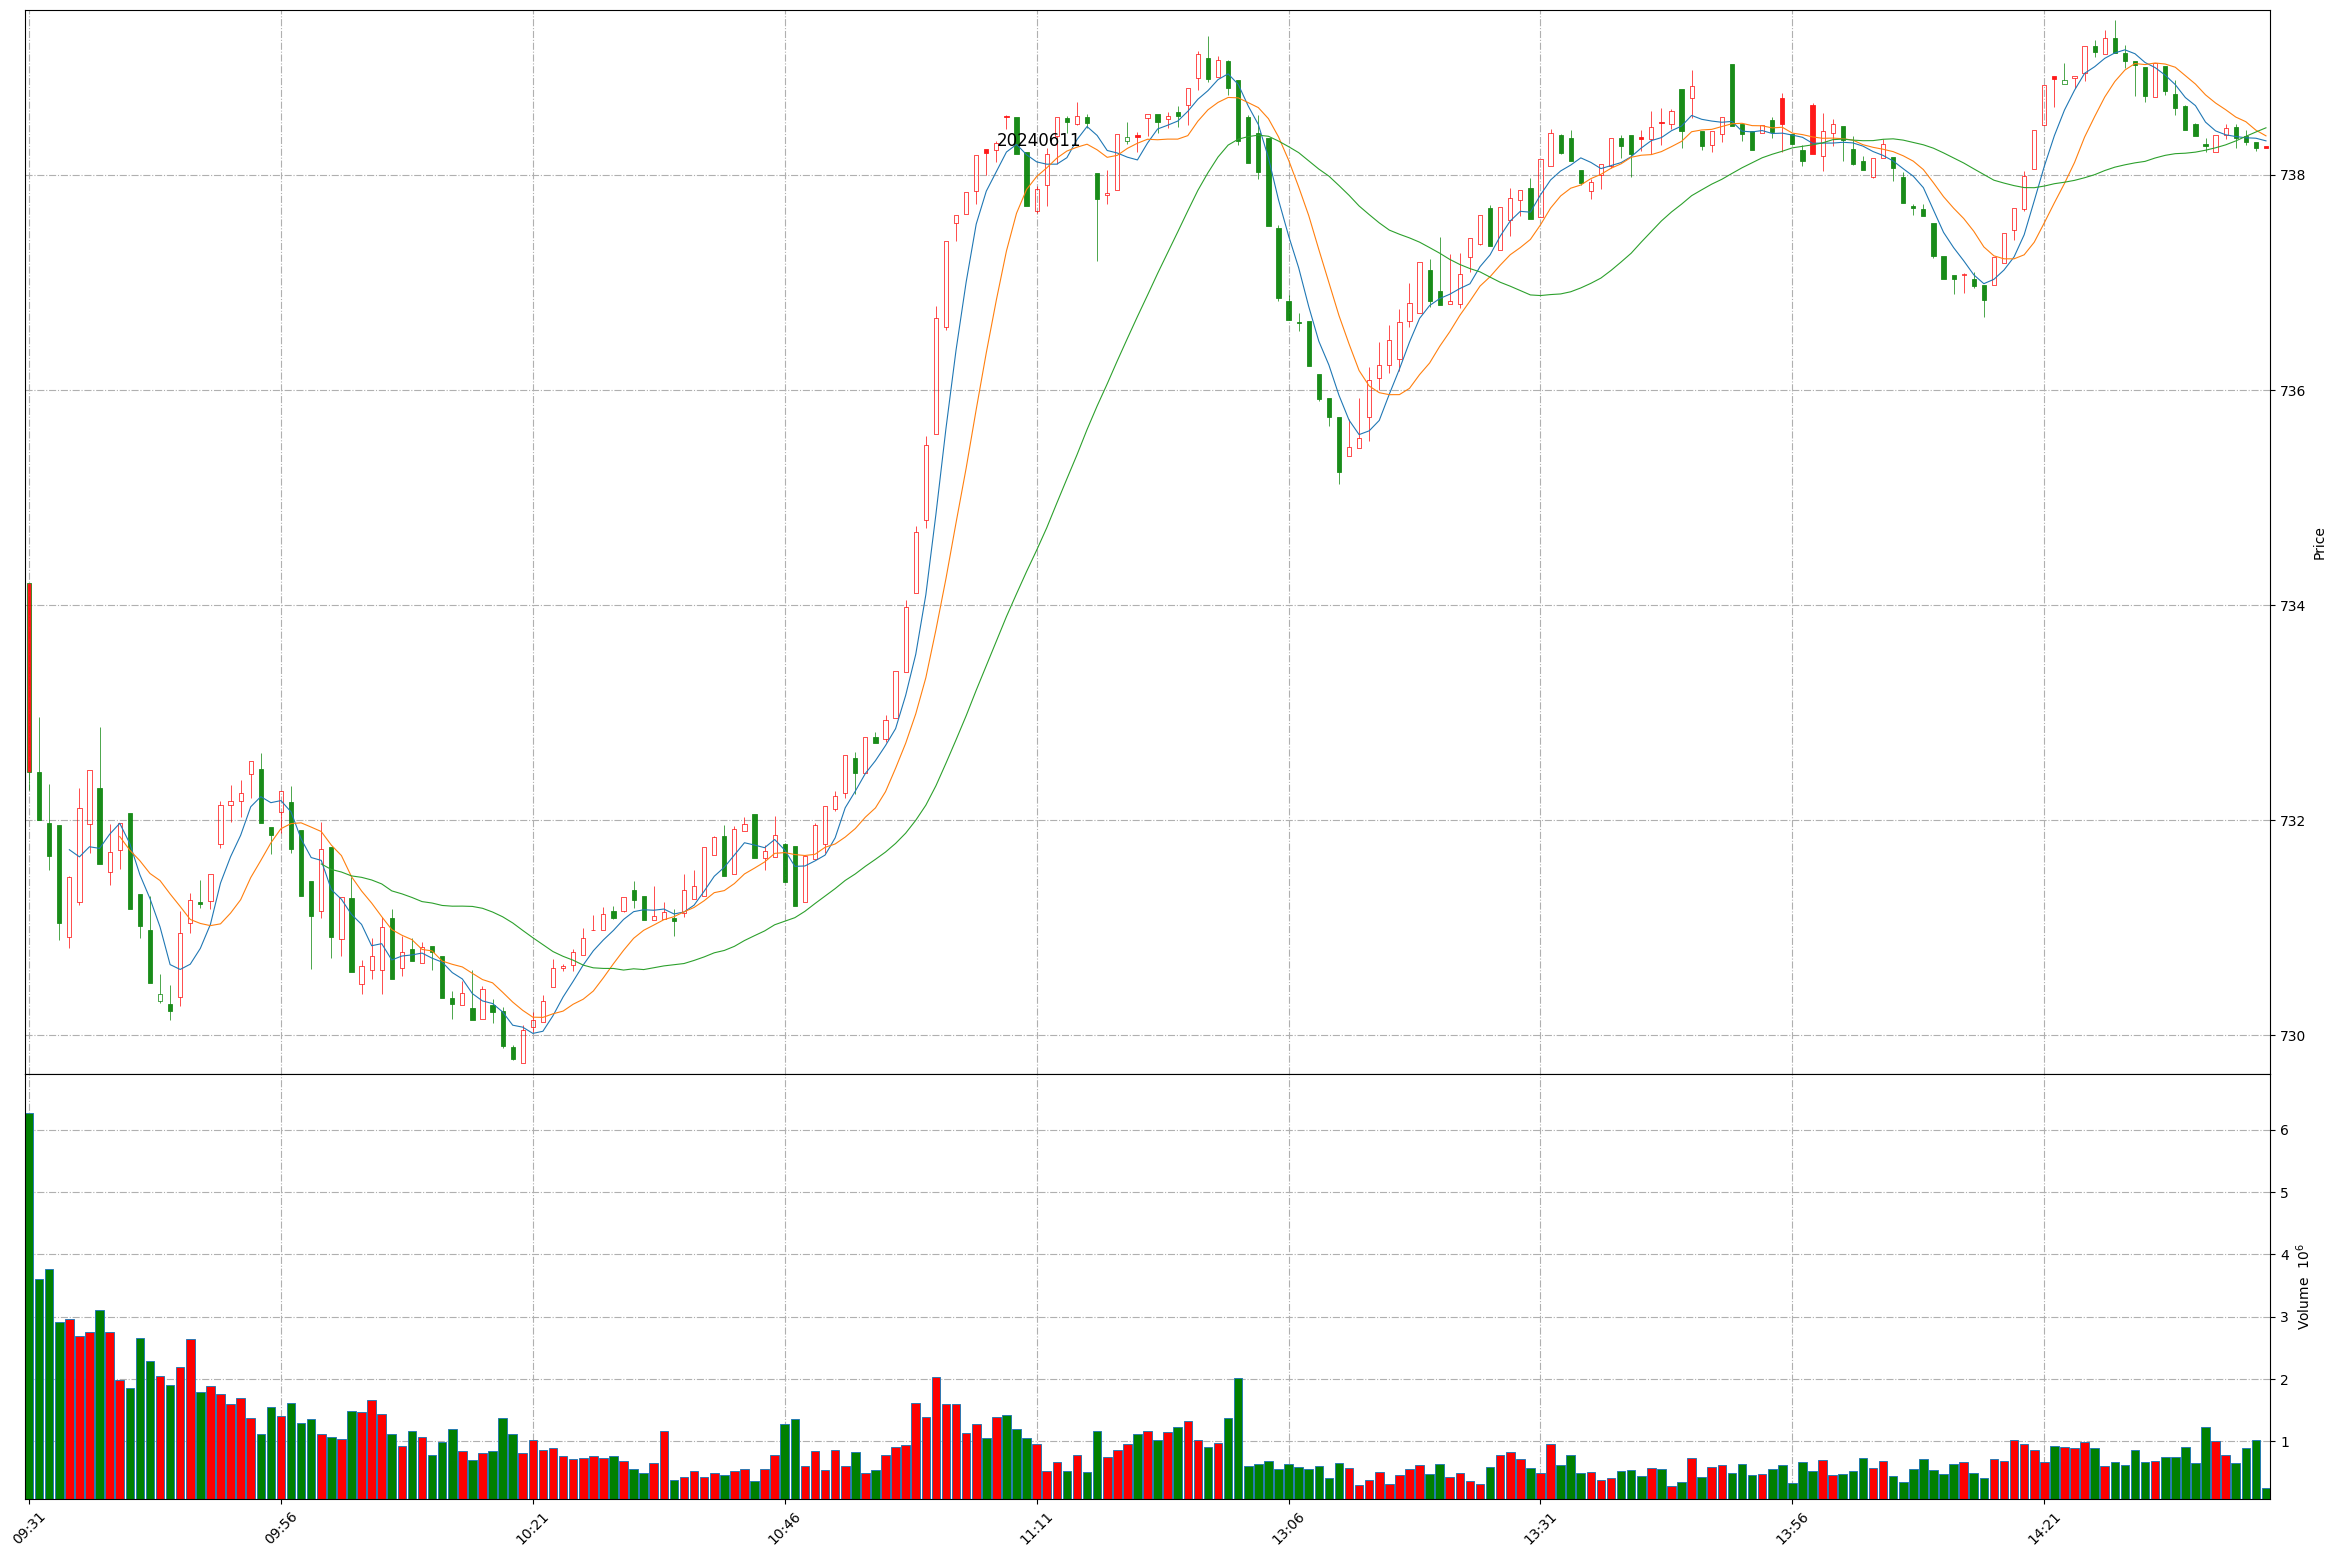
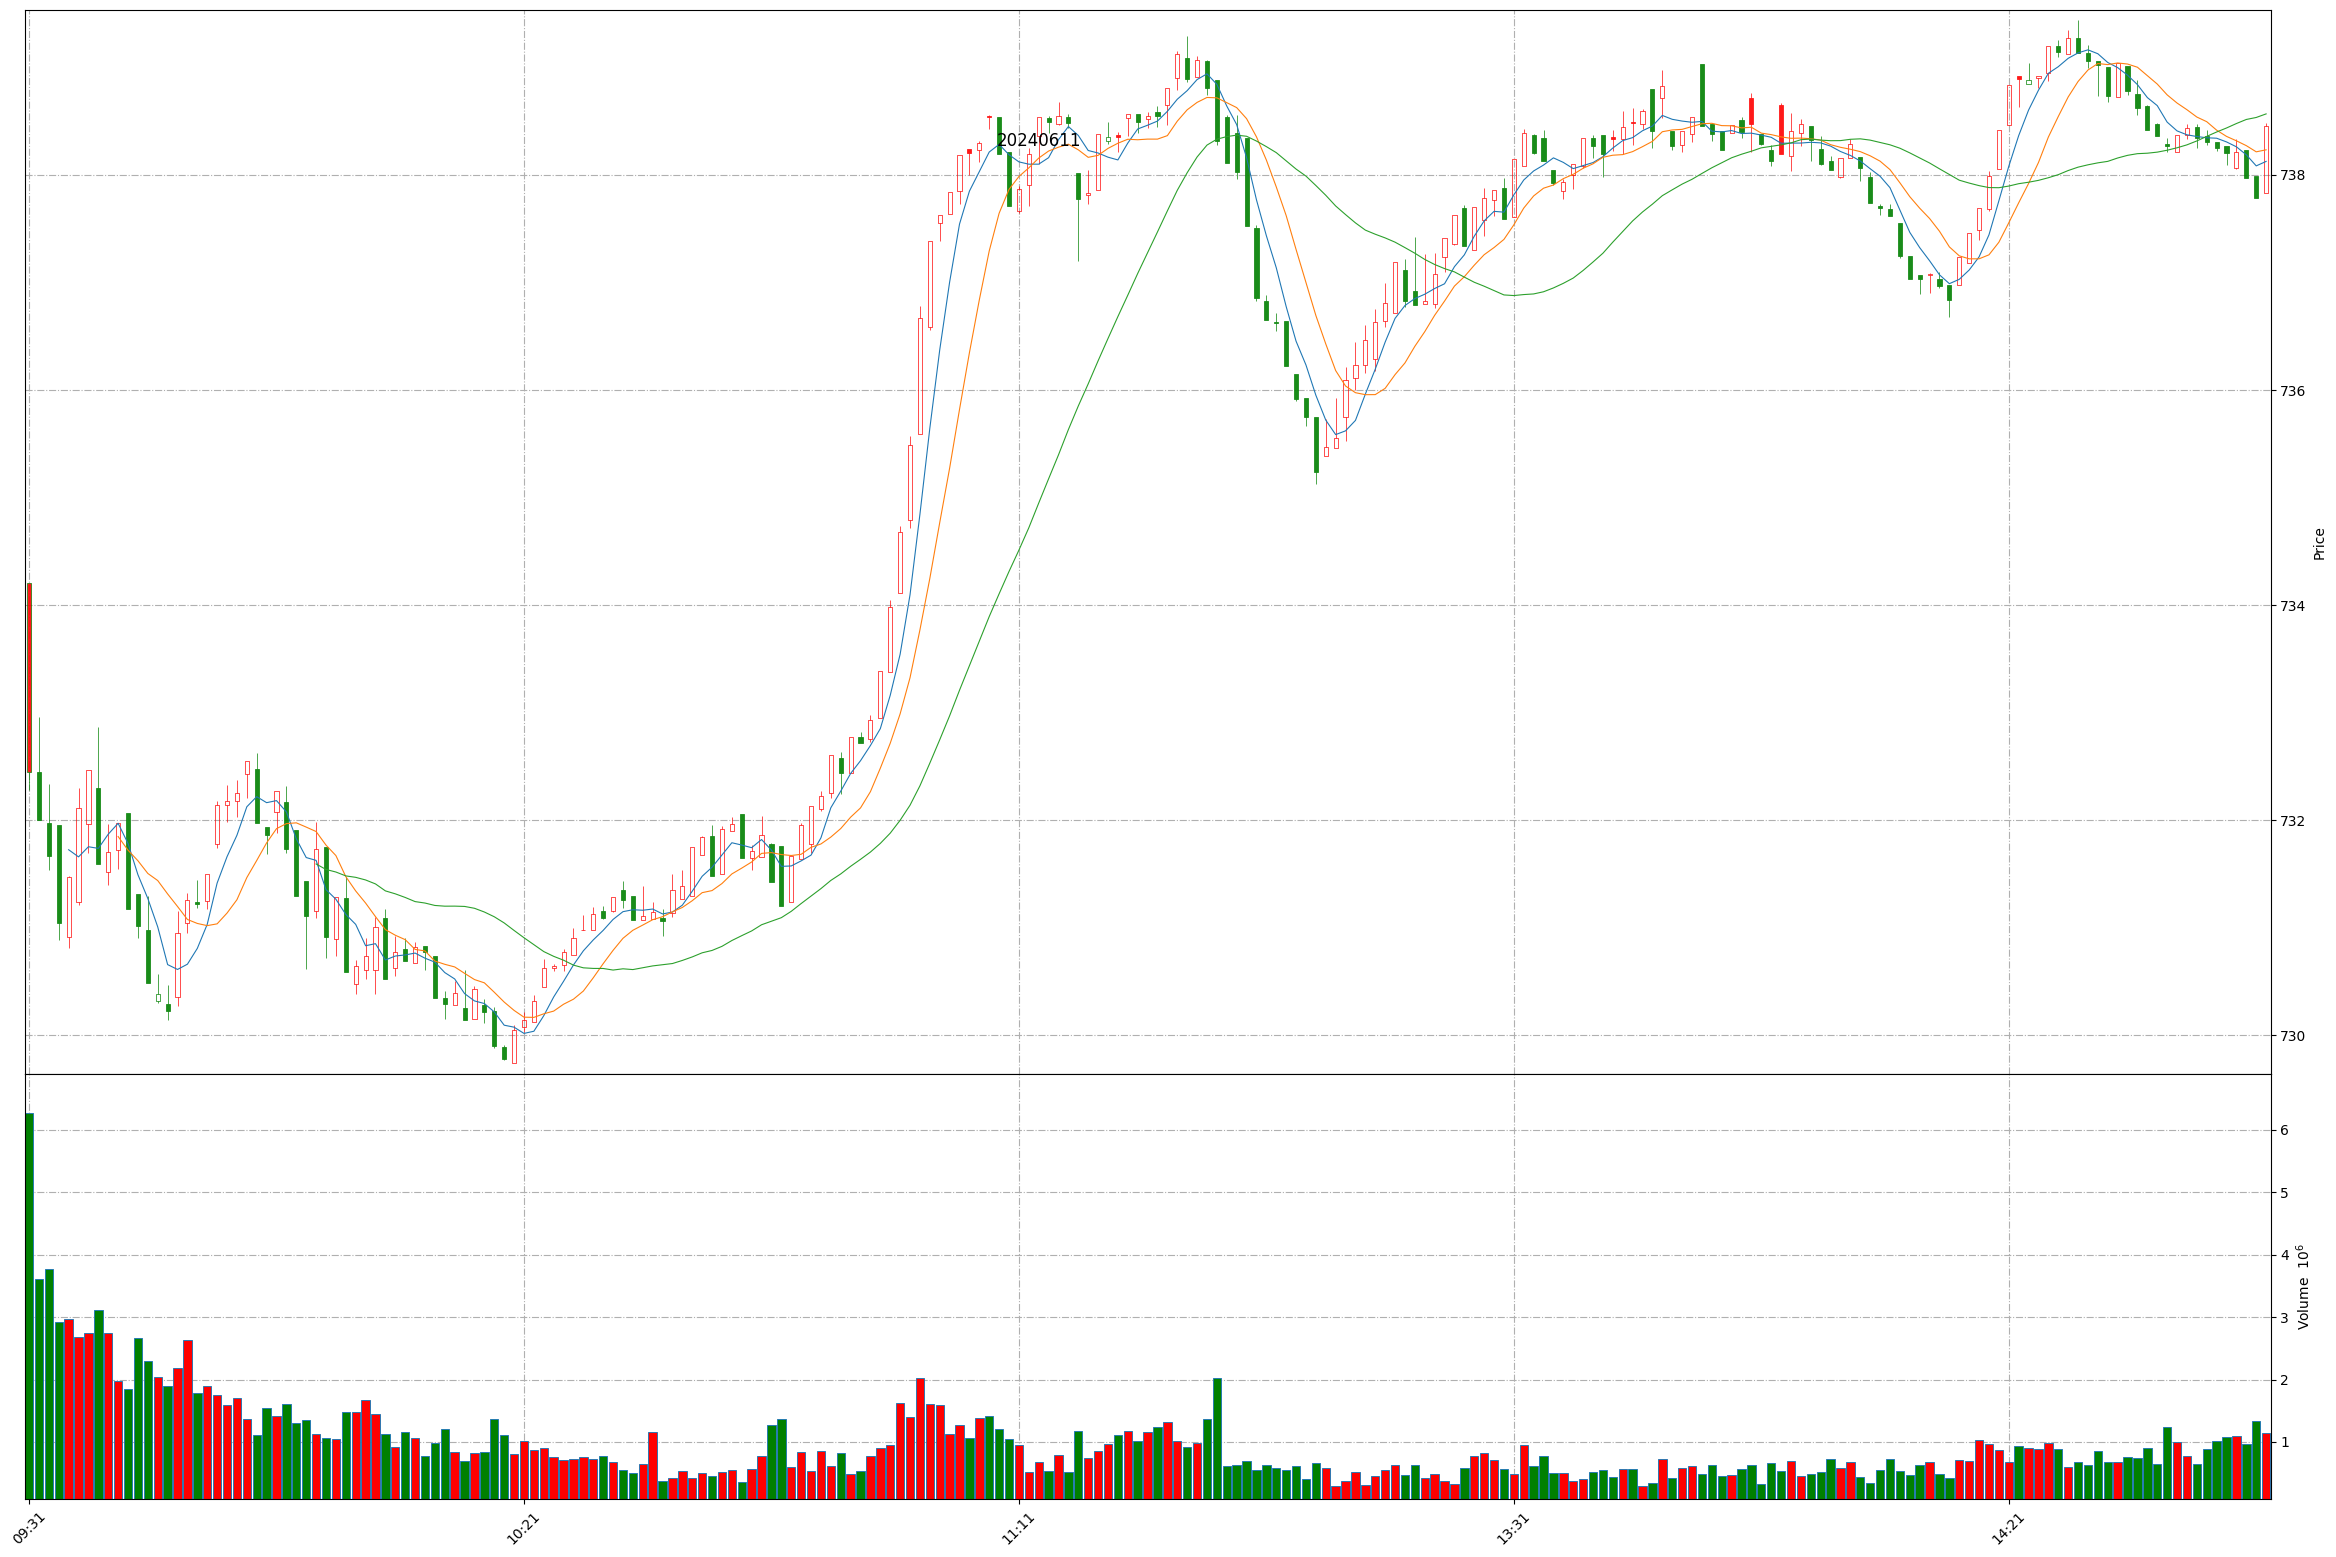
Github action update at 2024-06-11 14:47:11.

diff --git a/README.md b/README.md
@@ -1,11 +1,11 @@
 
 # Daily-A-share-market-quotes 每日 A 股指数（5min 更新）- 20240611
 
-### 上证指数 20240611 14:42
+### 上证指数 20240611 14:47
 ![](./fig/2024/6/20240611-sh000001.png)
 
-### 深证成指 20240611 14:42
+### 深证成指 20240611 14:47
 ![](./fig/2024/6/20240611-sz399001.png)
 
-### 北证50 20240611 14:42
+### 北证50 20240611 14:47
 ![](./fig/2024/6/20240611-bj899050.png)
